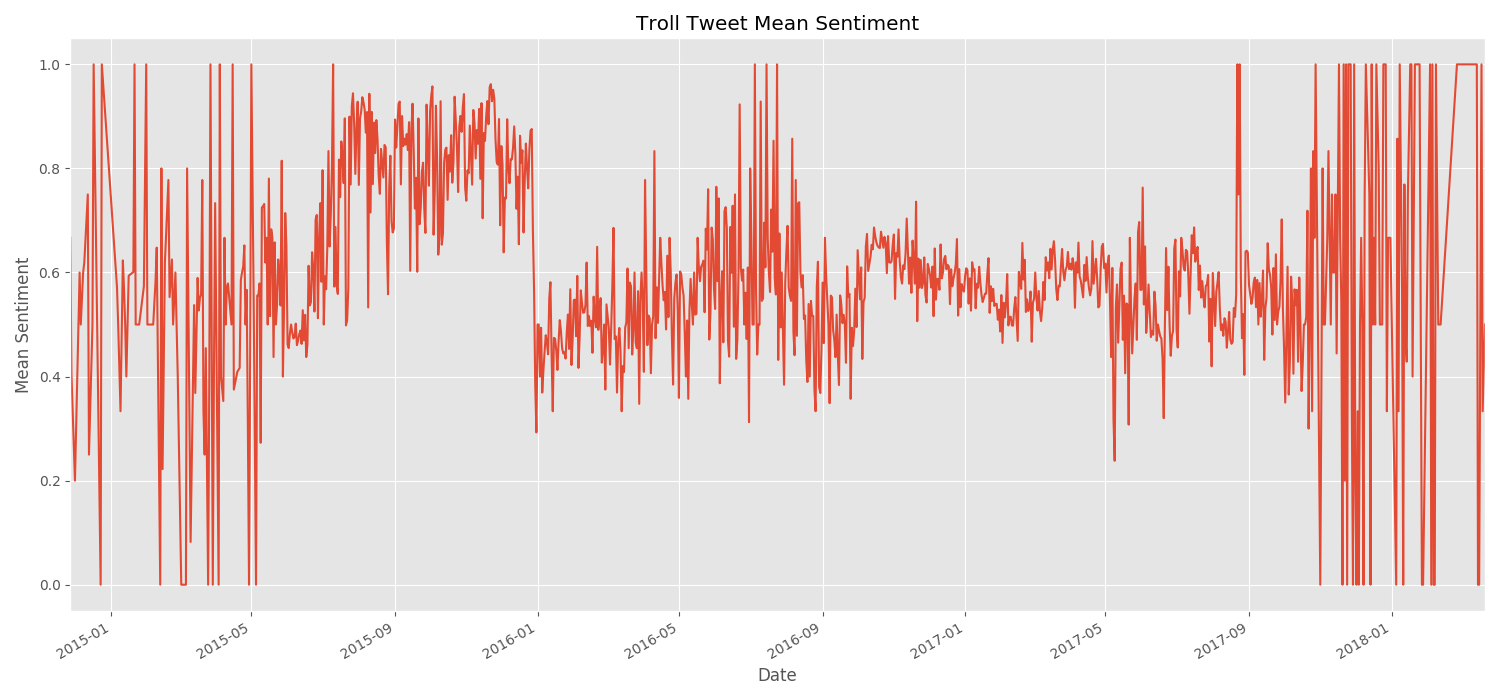
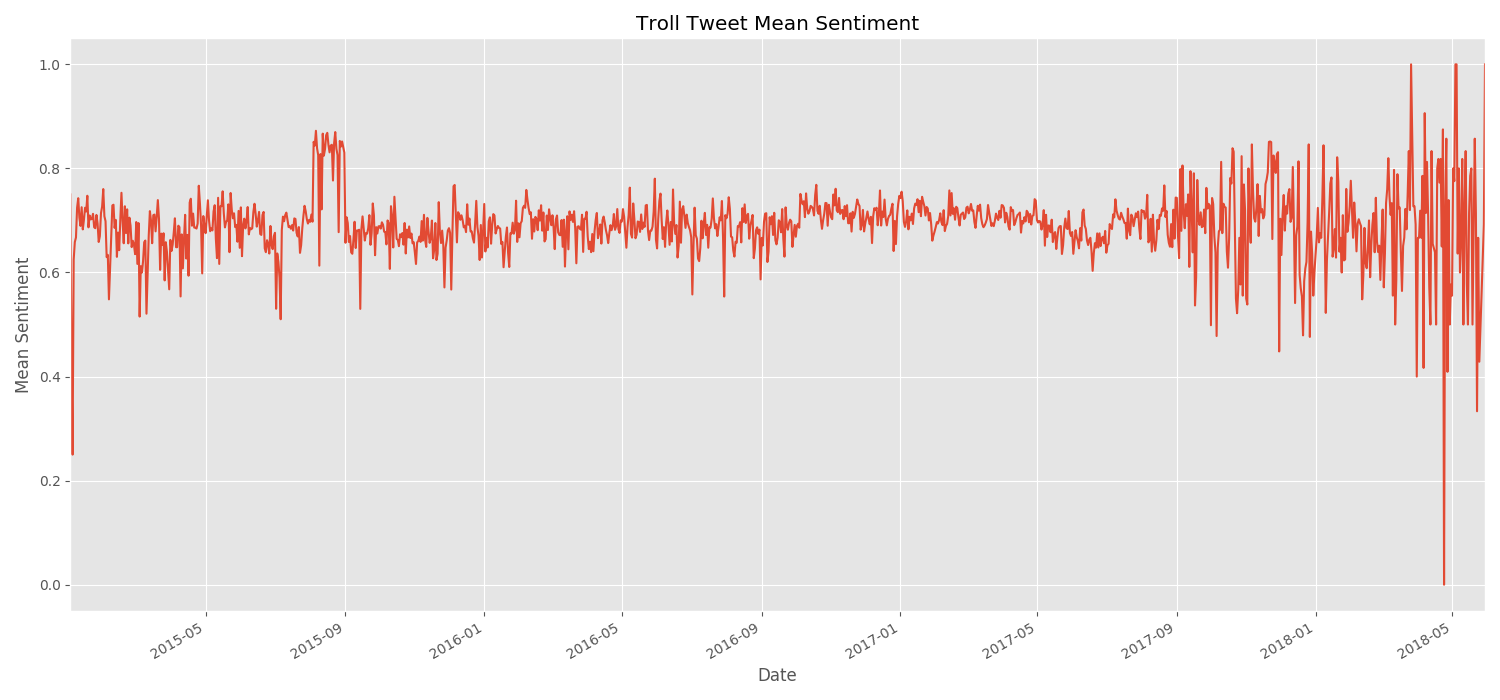
added Russian troll tweets average sentiment

diff --git a/Symposium/trolls.py b/Symposium/trolls.py
@@ -1,5 +1,5 @@
+from datetime import date
 from dateutil.parser import parse
-
 import joblib
 import pandas as pd
 import matplotlib.pyplot as plt
@@ -7,38 +7,45 @@ from Symposium.dataloader import load_dataset
 from Symposium.preprocessing import process_tweet, text_process, stem
 
 if __name__ == "__main__":
-
-    datafile = "dataset/IRAhandle_tweets_1.csv"
-    columns = ["external_author_id", "content", "account_type", "publish_date"]
-
-    dataset = load_dataset(datafile, columns)
-
-    # remove the time from date/time, convert to date format
-    dataset['publish_date'] = [parse(text.split(' ', 1)[0]) for text in dataset['publish_date']]
-
-    # clean the dataset
-    dataset['content'] = dataset['content'].apply(process_tweet)
-
     # load model(s)
-    model_NB = joblib.load("pickles/naive_bayes.pkl")
+    # model_NB = joblib.load("pickles/naive_bayes.pkl")
     # model_SGD = joblib.load("pickles/sgd.pkl")
-    # model_SVM = joblib.load("pickles/svm.pkl")
+    model_SVM = joblib.load("pickles/svm.pkl")
 
-    # produce predictions
-    dataset['score'] = model_NB.predict(dataset['content'])
+    dataset_graph = pd.Series()
+    for x in range(1, 13):
+        datafile = "dataset/IRAhandle_tweets_{}.csv".format(x)
+        columns = ["content", "publish_date", "language"]
 
-    data_group = dataset.groupby(['publish_date'])['score'].mean()
+        dataset = load_dataset(datafile, columns)
+
+        # the model is trained on english, so only keep the English tweets
+        dataset = dataset[dataset.language.str.contains('English')]
+
+        # remove the time from date/time, convert to date format
+        dataset['publish_date'] = [parse(text.split(' ', 1)[0]) for text in dataset['publish_date']]
+
+        # limit to tweets after 12/1/2015
+        dataset = dataset[dataset['publish_date'] > pd.Timestamp(date(2015, 1, 1))]
+
+        # clean the dataset
+        dataset['content'] = dataset['content'].apply(str)
+        dataset['content'] = dataset['content'].apply(process_tweet)
+
+        # produce predictions
+        dataset['score'] = model_SVM.predict(dataset['content'])
+
+        dataset_graph = pd.concat([dataset_graph, dataset], axis=0, sort=True)
+
+        print("Processed dataset {}".format(x))
+
+    data_mean = dataset_graph.groupby(['publish_date'])['score'].mean()
     plt.style.use('ggplot')
     fig, ax = plt.subplots(figsize=(15, 7))
-    data_group.plot(ax=ax)
-    # dataset.groupby(['publish_date']).count()['score'].plot(ax=ax)
+    data_mean.plot(ax=ax)
     ax.set_xlabel('Date')
     ax.set_ylabel('Mean Sentiment')
     plt.title('Troll Tweet Mean Sentiment')
     plt.show()
     fig.savefig('graphs/tweets_1_NB.png')
     plt.close('all')
-
-    # nb = model_NB.predict(tweet)[0]
-    # sgd = model_SGD.predict(tweet)[0]
-    # svm = model_SVM.predict(tweet)[0]
